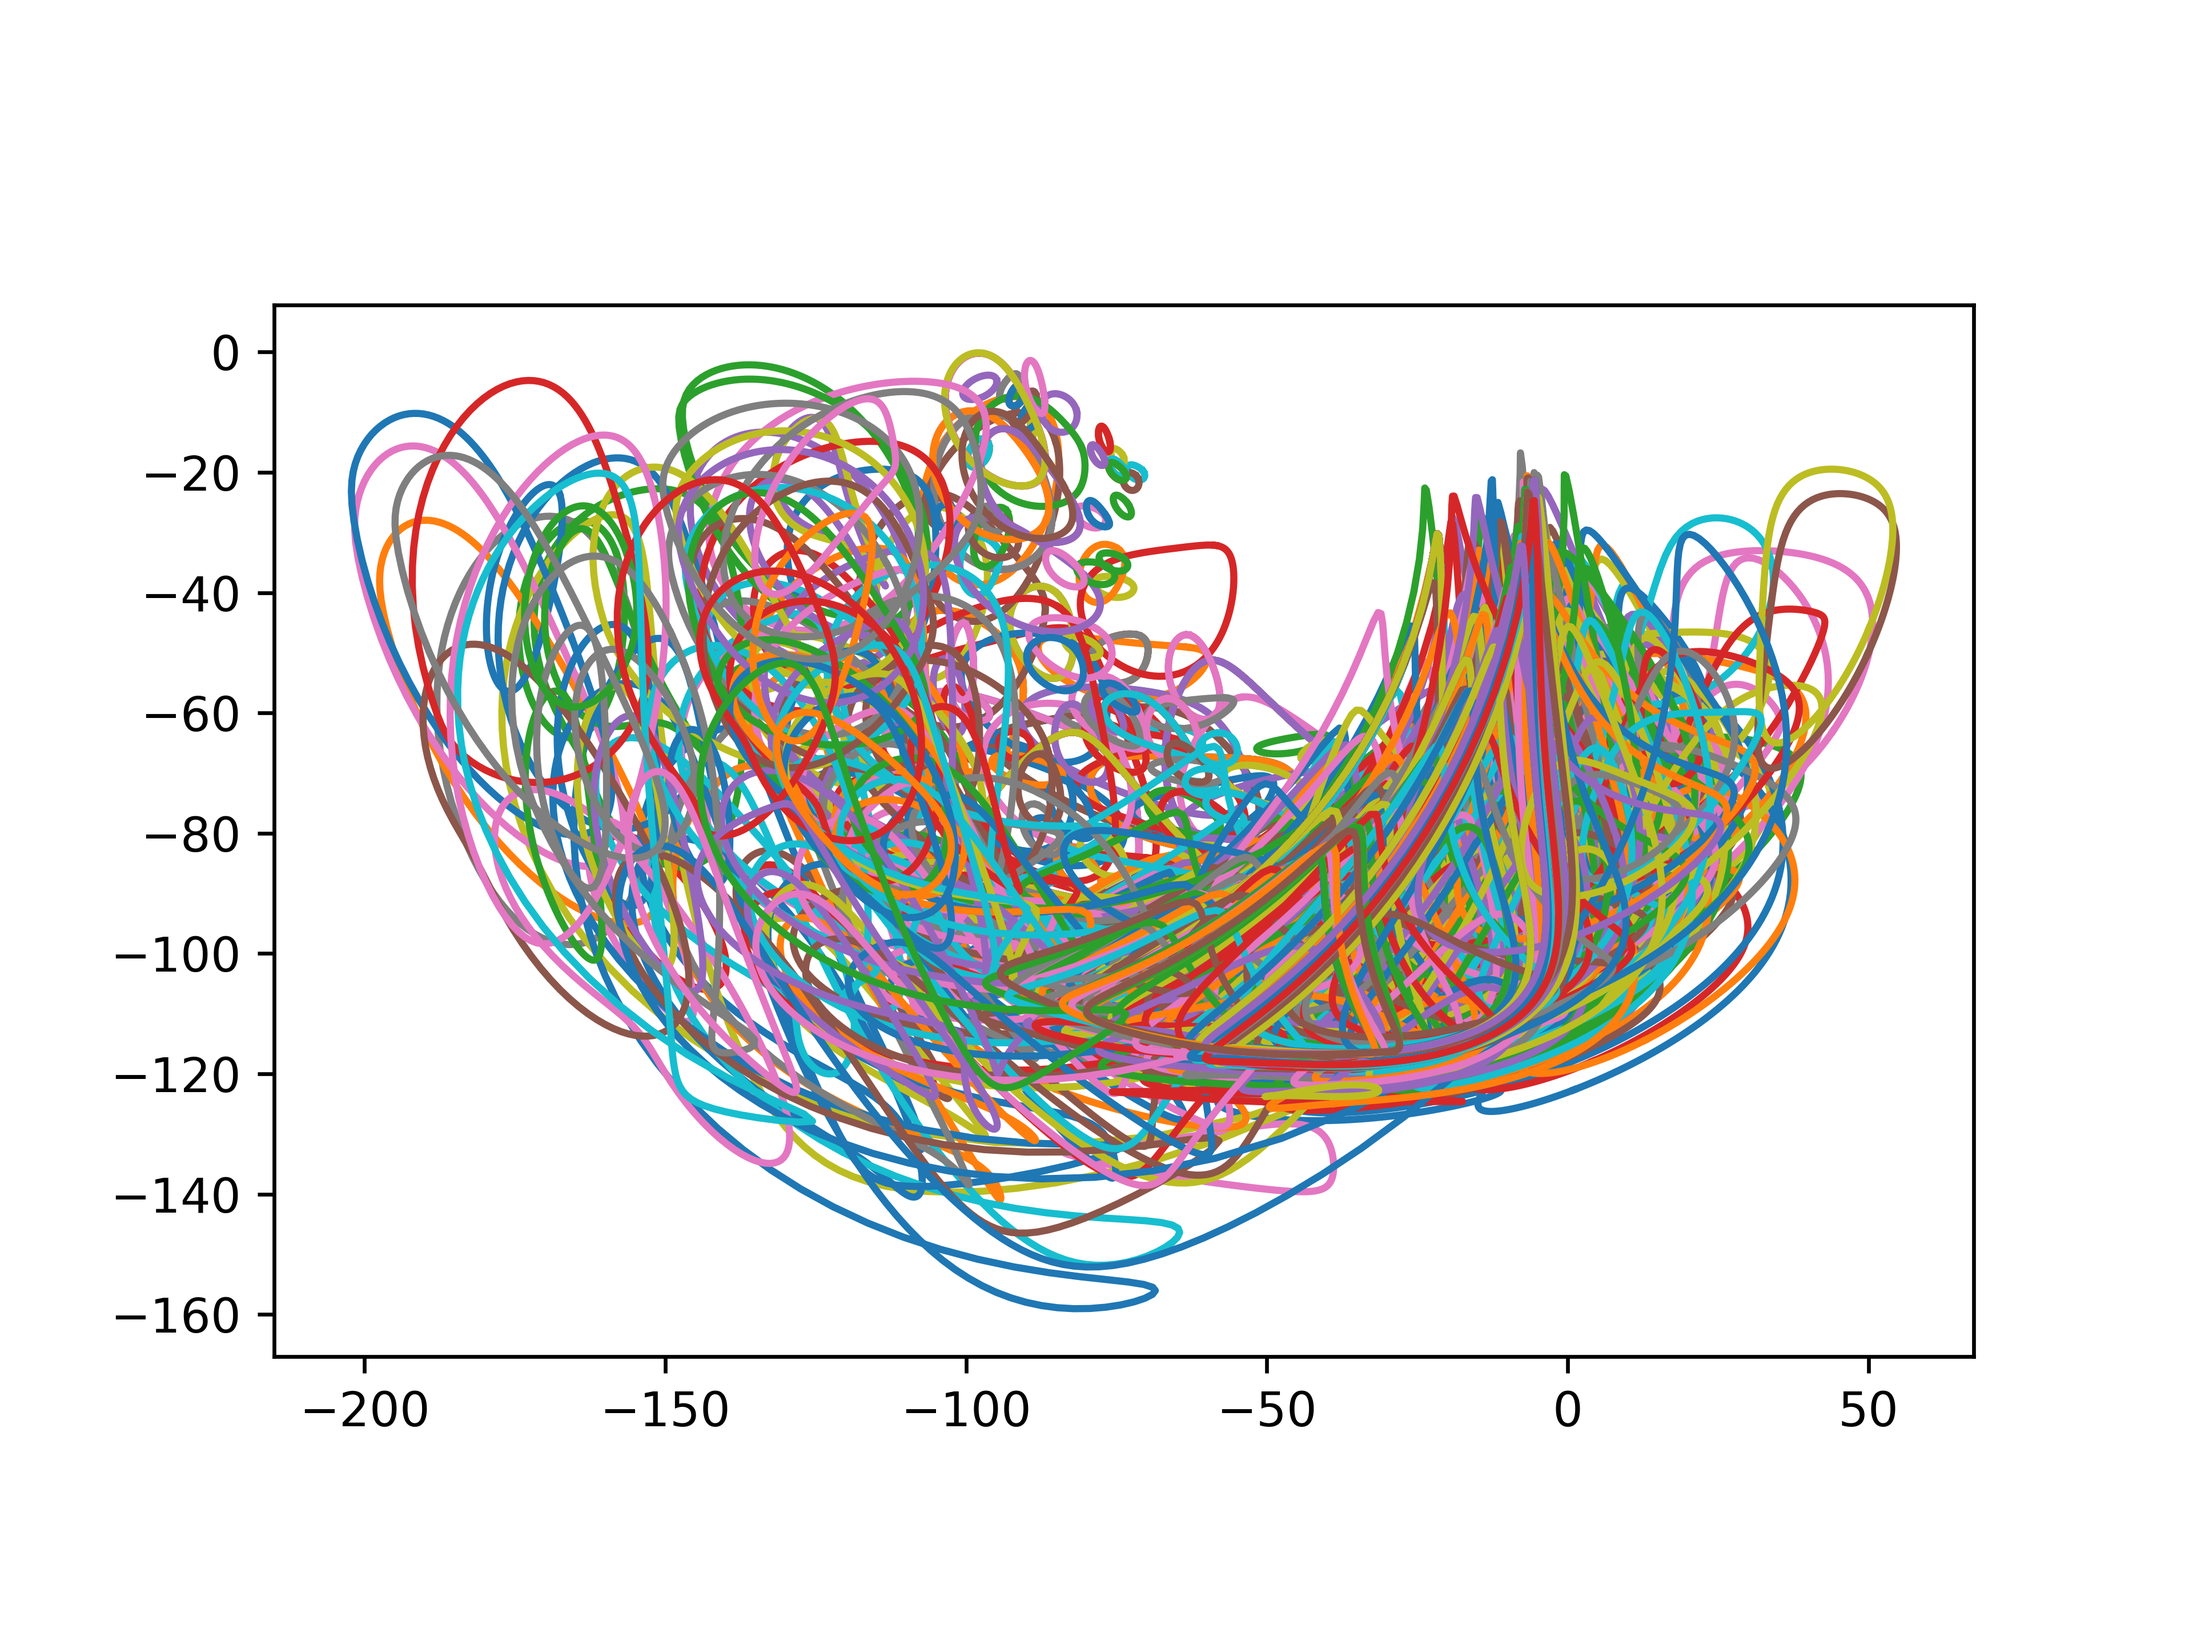
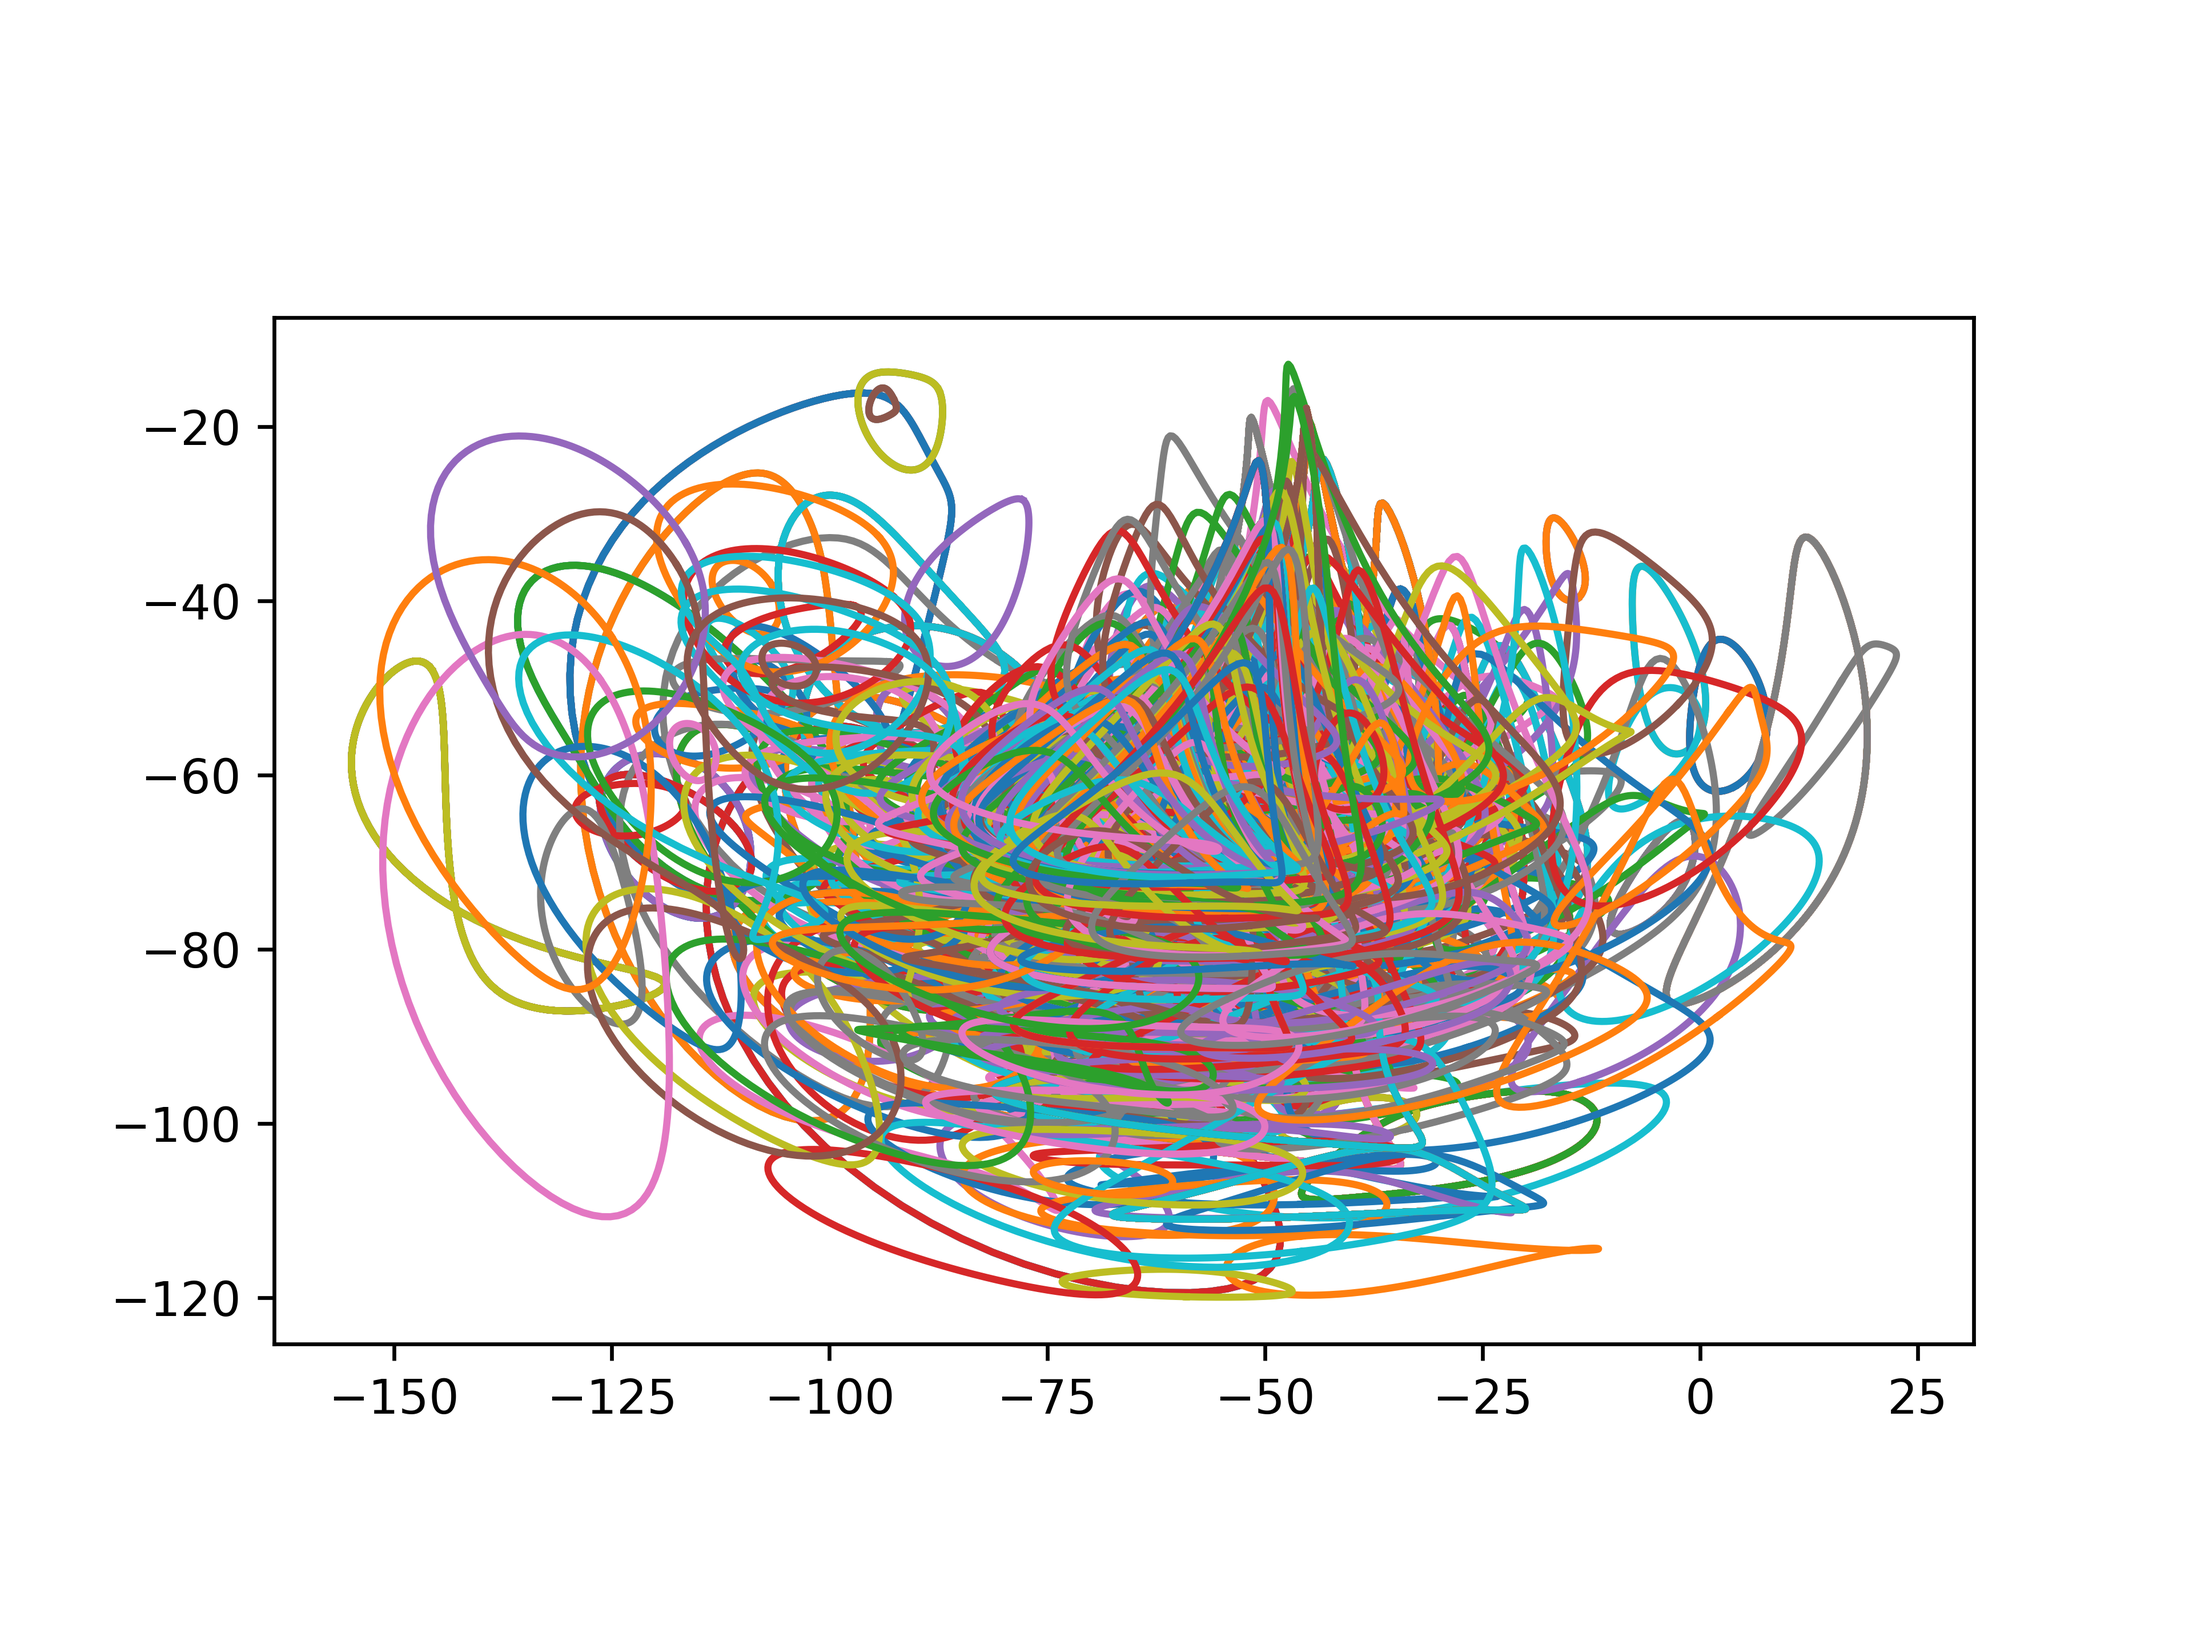
setup to produce worse results
and not use interactive matplotlib

diff --git a/main.py b/main.py
@@ -5,8 +5,8 @@ author: mikekraso@gmail.com
 December 17th, 2024
 """
 
-# import matplotlib
-# matplotlib.use('QtAgg')
+import matplotlib
+matplotlib.use('Agg')
 import matplotlib.pyplot as plt
 from matplotlib import cm
 import numpy as np
@@ -19,13 +19,14 @@ names = [
     'a', 'b', 'c', 'd', 'e', 'f', 'g', 'h', 'i', 'j', 'k', 'l', 'm'
 ]
 
+# use the known ideal values as a starting point for the mins and max gene ranges
 ideal = [38.0, 41.5, 39.3, 40.1, 55.8, 39.4, 36.7, 65.7, 49.0, 50.0, 61.9, 7.8, 15.0]
 gene_info = {names[iii]: [val - (val / 2), val + (val / 2)] for iii, val in enumerate(ideal)}
 
 ga = geneticAlgorithm(
     gene_info=gene_info,
     numpopinit=200,
-    iters=500,
+    iters=100,
 )
 
 divs = 128  # 320
